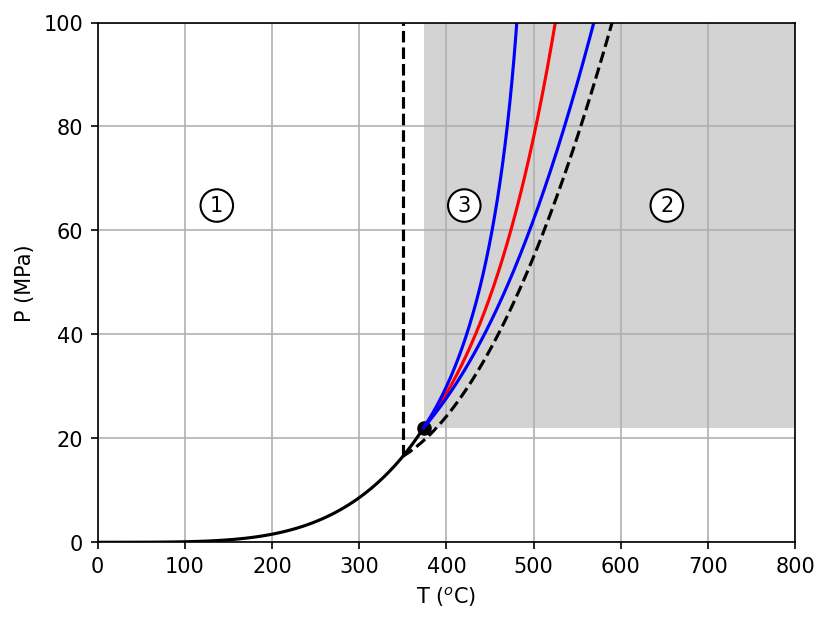
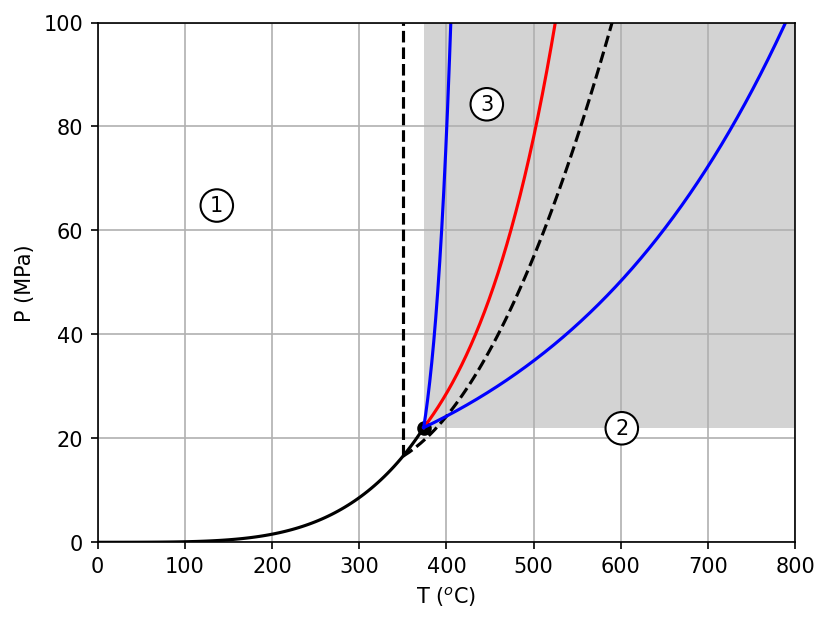
Update user docs for revised Widom delta representation [ci skip]

diff --git a/doc/user/setup_thermodynamics.rst b/doc/user/setup_thermodynamics.rst
@@ -102,14 +102,14 @@ The Widom line
 
 The properties of supercritical fluid can be liquid-like or vapour-like, or something in between, depending on its pressure and temperature. Several lines on the pressure-temperature diagram, based on various physical properties, and extending from the critical point, have been proposed to distinguish liquid-like and vapour-like supercritical fluid.
 
-One of these lines is known as the **Widom line**. An expression for the location of the Widom line, based on experimental data, has been given by [Banuti_et_al_2017]_:
+One of these lines is known as the **Widom line**. An expression for the location of the Widom line, based on thermodynamic considerations and experimental data, has been given by [Banuti_et_al_2017]_:
 
 .. math::
    :label: widom_eqn
 
    P = P_c e^{A_s (T^k/T^k_c - 1)}
 
-where :math:`P_c` is the critical pressure (Pa), :math:`T^k_c` is the critical temperature (K), :math:`T^k` is the temperature (K) and :math:`A_s` is a dimensionless constant, which for water has the value 6.479.
+where :math:`P_c` is the critical pressure (Pa), :math:`T^k_c` is the critical temperature (K), :math:`T^k` is the temperature (K) and :math:`A_s` is a species-specific dimensionless slope parameter, which for water has the value 6.479.
 
 .. _widom_delta:
 
@@ -118,18 +118,9 @@ The Widom delta
 
 The behaviour of supercritical fluid does not change suddenly from liquid-like to vapour-like as the Widom line is crossed. A transition zone around the line has been identified, known as the **Widom delta**, within which the fluid's behaviour is in between liquid-like and vapour-like [Ha_et_al_2018]_.
 
-As yet, there do not appear to be any published expressions for the locations of the Widom delta boundaries.  In Waiwera the temperature difference between the vapour-like and liquid-like Widom delta boundaries is assumed to vary linearly with pressure, so that the boundaries :math:`T^v_{\delta}` and :math:`T^l_{\delta}` are given by:
+The locations of the boundaries of the Widom delta were identified for various supercritical fluids, including water, by [Wang_et_al_2021]_. Waiwera represents these boundaries using the same exponential form as the Widom line :eq:`widom_eqn` but with different slope parameters :math:`A_s`.
 
-.. math::
-   :label: widom_delta_eqn
-
-           T^v_{\delta} = T_w(P) + \frac{\alpha}{2} (P - P_0) / P_c
-
-           T^l_{\delta} = T_w(P) - \frac{\alpha}{2} (P - P_0) / P_c
-
-where :math:`T_w` is the Widom line temperature (:math:`^{\circ}`\ C) for the pressure :math:`P`, found by inverting equation :eq:`widom_eqn`, and :math:`\alpha` is a growth factor with default value 25 :math:`^{\circ}`\ C. :math:`P_0` is a reference pressure corresponding to a reference temperature :math:`T_0` on the saturation line, chosen slightly lower than the critical temperature :math:`T_c` (by default 0.1 :math:`^{\circ}`\ C lower), so that the Widom delta has a very small but finite width at the critical point. This avoids numerical issues with infinitely sharp transitions between liquid-like and vapour-like supercritical fluid at the critical point.
-
-:numref:`supercritical_plot` shows the supercritical zone shaded grey on a pressure-temperature plot, with the dashed lines representing the boundaries between IAPWS-97 region 3 and regions 1 and 2. It also shows the Widom line (red) given by equation :eq:`widom_eqn` and the Widom delta boundaries (blue) given by equation :eq:`widom_delta_eqn`, with the default value of the growth parameter :math:`\alpha`. It can be seen that, for this value of :math:`\alpha`, the Widom delta lies within region 3. Most, but not all, of region 3 is supercritical. A significant proportion of region 2 is vapour-like supercritical fluid.
+:numref:`supercritical_plot` shows the supercritical zone shaded grey on a pressure-temperature plot, with the dashed lines representing the boundaries between IAPWS-97 region 3 and regions 1 and 2. It also shows the Widom line (red) given by equation :eq:`widom_eqn` and the Widom delta boundaries (blue). It can be seen that the supercritical zone covers not only most of region 3 but also a significant part of region 2. The Widom line and the liquid-like boundary of the Widom delta are within region 3, but the vapour-like boundary of the Widom delta is mostly in region 2 (except near the critical point).
 
 .. _supercritical_plot:
 .. figure:: supercritical.*
@@ -138,7 +129,7 @@ where :math:`T_w` is the Widom line temperature (:math:`^{\circ}`\ C) for the pr
 
            Supercritical zone (shaded grey), Widom line (red) and Widom delta boundaries (blue)
 
-The Waiwera JSON input file has a **"thermodynamics.widom"** value for specifying Widom parameters. This contains a value **"thermodynamics.widom.delta"**, an object in which the Widom delta growth and offset parameters may be specified.
+The Waiwera JSON input file has a **"thermodynamics.widom"** value for specifying Widom parameters. This contains a value **"thermodynamics.widom.delta"**, an object in which the Widom delta boundary slope parameters may be specified.
 
 .. admonition:: JSON input
 
@@ -160,14 +151,8 @@ The Waiwera JSON input file has a **"thermodynamics.widom"** value for specifyin
    +-------------+----------+-------------------+-----------------------+
    |**name**     |**type**  |**default**        |**value**              |
    +-------------+----------+-------------------+-----------------------+
-   |"growth"     |number    |25                 |Widom delta growth     |
-   |             |          |                   |factor :math:`\alpha`  |
-   |             |          |                   |(:math:`^{\circ}`\ C)  |
-   +-------------+----------+-------------------+-----------------------+
-   |"offset"     |number    |0                  |Widom delta temperature|
-   |             |          |                   |offset :math:`T_c -    |
-   |             |          |                   |T_0` (:math:`^{\circ}`\|
-   |             |          |                   |C)                     |
+   |"slope"      |array     |[31.46, 2.356]     |Widom delta boundary   |
+   |             |          |                   |slopes                 |
    +-------------+----------+-------------------+-----------------------+
 
 .. _liquidlike_fraction:
@@ -184,7 +169,7 @@ In Waiwera the liquid-like fraction is estimated (in the absence of experimental
 
    \xi = \frac{T - T^l_{\delta}}{T^v_{\delta} - T^l_{\delta}}
 
-Then the liquid-like fraction is calculated as:
+where the Widom delta boundaries :math:`T^l_{\delta}` and :math:`T^v_{\delta}` are found from the pressure by inverting the exponential equation :eq:`widom_eqn`, for each of the Widom delta boundary slopes. Then the liquid-like fraction is calculated as:
 
 .. math::
    :label: widom_pi_liq
@@ -199,3 +184,4 @@ where :math:`h_{00} = (1 + 2 \xi) (1 - \xi)^2` is the cubic Hermite spline basis
 
 .. [Banuti_et_al_2017] Banuti, D.T., Raju, M. and Ihme, M. (2017). "Similarity law for Widom lines and coexistence lines", Phys. Rev. E 95, 052120.
 .. [Ha_et_al_2018] Ha, M.Y., Yoon, T.J., Tlusty, T., Jho, Y. and Lee, W.B. (2018). "Widom Delta of Supercritical Gas-Liquid Coexistence", J. Phys. Chem. Lett. 2018 (9), 1734 - 1738.
+.. [Wang_et_al_2021] Wang, Q., Ma, X., Xu, J., Li, M. and Wang, Y. (2021). "The three-regime model for pseudo-boiling in supercritical pressure", Int. J. Heat and Mass Transfer 2021 (181), 1 - 16.
